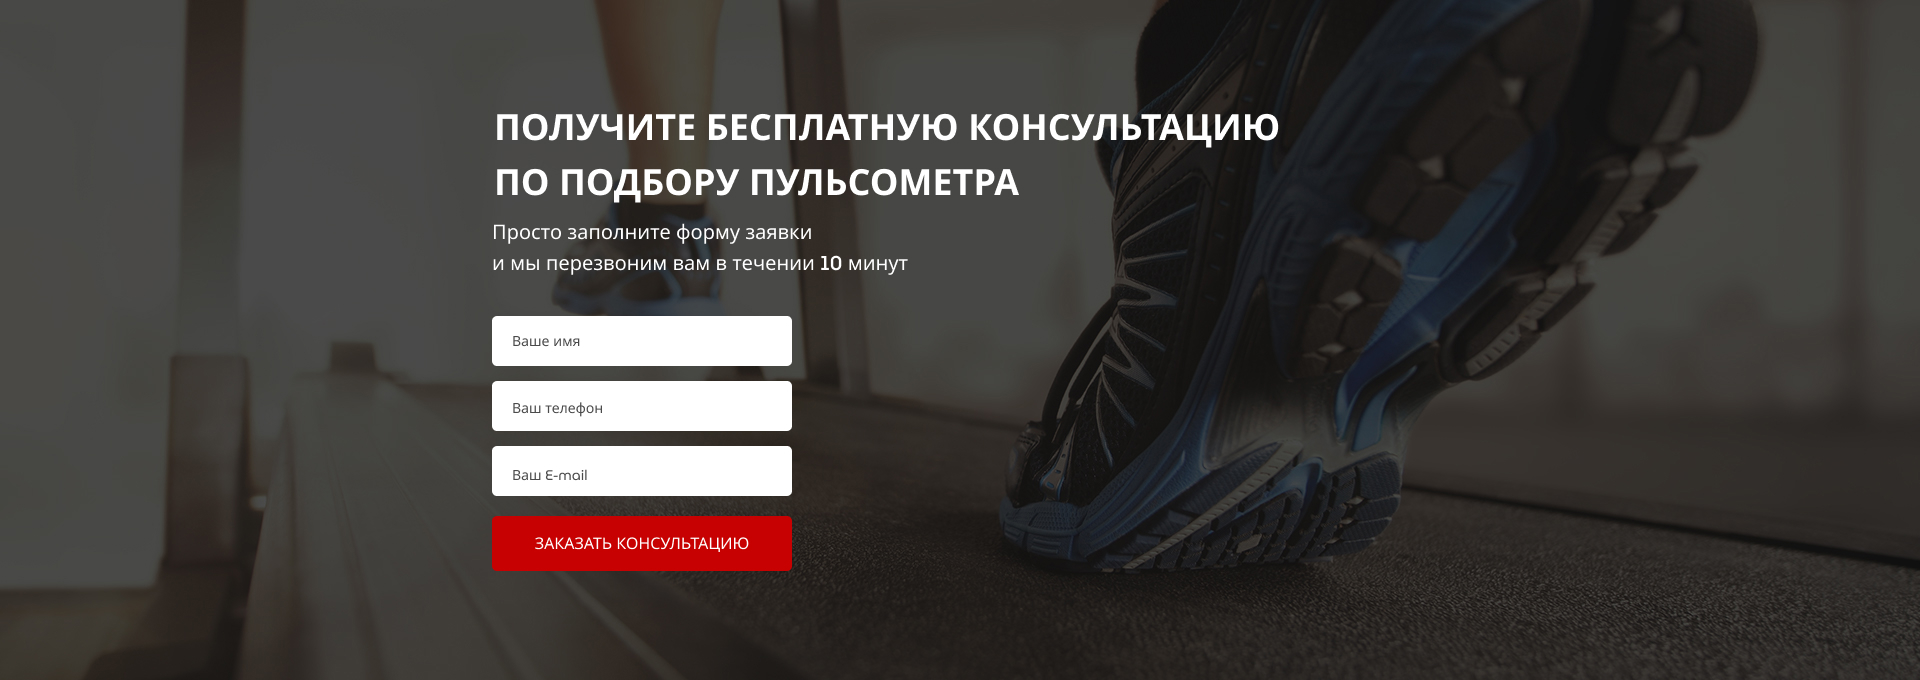
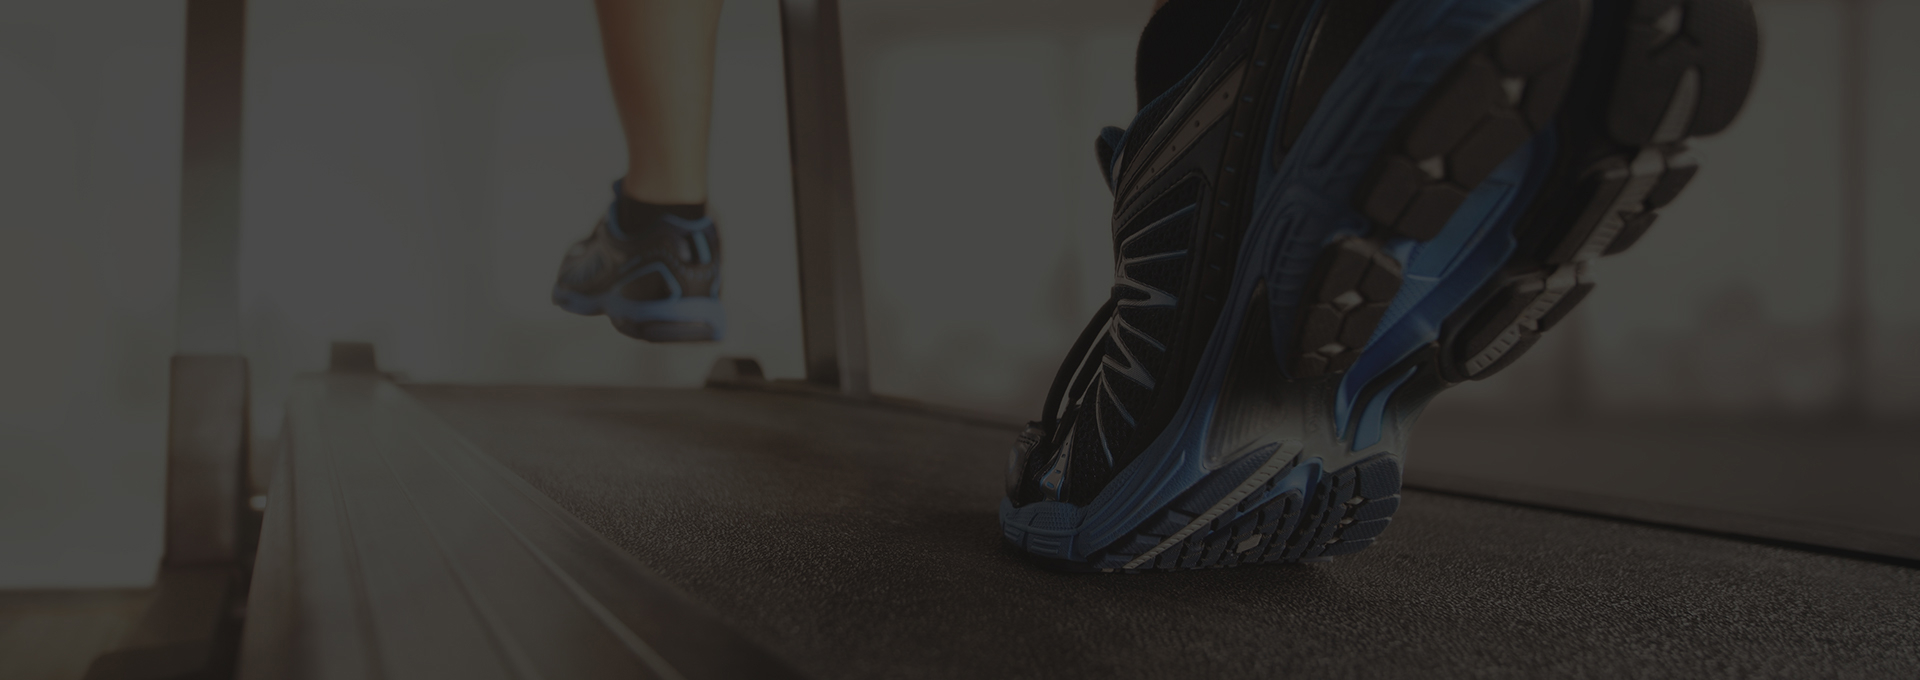
work scss and html, adaptation

diff --git a/src/css/style.min.css b/src/css/style.min.css
@@ -1,1 +1,1 @@
-*{font-family:"Museo Sans Cyrl",sans-serif}.container{max-width:950px;margin:0 auto}.promo{min-height:650px;padding:21px 0 93px 0;background:url(../img/main.jpg) center center/cover no-repeat}.promo__wrapper{display:flex;flex-direction:column;align-items:flex-end;margin-top:90px}.promo__header{color:#fff;font-size:42px;font-weight:700;text-transform:uppercase}.promo__subheader{margin-top:17px;color:#fff;font-size:24px;line-height:24px;font-weight:500;text-transform:uppercase}.promo__icons{margin-top:65px;width:425px;display:flex;justify-content:space-between}.promo__icon{width:106px;text-align:center;color:#fff;font-size:14px;font-weight:400}.promo__icon img{display:block;margin:0 auto;margin-bottom:20px}.promo__link{color:#fff;font-size:16px;font-weight:500;margin-top:18px}.promo__link a{color:#fff;text-transform:uppercase;text-decoration:underline}.header{display:flex;justify-content:space-between;align-items:center}.header__logo{width:250px}.header__logo img{width:90%}.header__official{color:#fff;font-family:"Museo Sans Cyrl -500";font-size:12px;font-weight:500;text-align:center}.header__official span{display:block;font-size:18px}.header__phone{display:block;color:#fff;font-size:18px;font-weight:700}.header__phone:hover{color:#fff;text-decoration:none}.header__contacts{display:flex;flex-direction:column;align-items:flex-end}.button{width:150px;height:30px;border-radius:5px;background-color:#c70101;border:none;color:#fff;font-size:12px;font-weight:500;text-transform:uppercase}.button_main{margin-top:67px;width:300px;height:50px;font-size:16px}
+*{font-family:"Museo Sans Cyrl",sans-serif}.container{max-width:950px;margin:0 auto}.promo{min-height:650px;padding:21px 0 93px 0;background:url(../img/main.jpg) center center/cover no-repeat}.promo__wrapper{display:flex;flex-direction:column;align-items:flex-end;margin-top:90px}.promo__header{color:#fff;font-size:42px;font-weight:700;text-transform:uppercase}.promo__subheader{margin-top:17px;color:#fff;font-size:24px;line-height:24px;font-weight:500;text-transform:uppercase}.promo__icons{margin-top:65px;width:425px;display:flex;justify-content:space-between}.promo__icon{width:106px;text-align:center;color:#fff;font-size:14px;font-weight:400}.promo__icon img{display:block;margin:0 auto;margin-bottom:20px}.promo__link{color:#fff;font-size:16px;font-weight:500;margin-top:18px}.promo__link a{color:#fff;text-transform:uppercase;text-decoration:underline}.header{display:flex;justify-content:space-between;align-items:center}.header__logo{width:250px}.header__logo img{width:90%}.header__official{color:#fff;font-family:"Museo Sans Cyrl -500";font-size:12px;font-weight:500;text-align:center}.header__official span{display:block;font-size:18px}.header__phone{display:block;color:#fff;font-size:18px;font-weight:700}.header__phone:hover{color:#fff;text-decoration:none}.header__contacts{display:flex;flex-direction:column;align-items:flex-end}.button{width:150px;height:30px;border-radius:5px;background-color:#c70101;border:none;color:#fff;font-size:12px;font-weight:500;text-transform:uppercase}.button_main{margin-top:67px;width:300px;height:50px;font-size:16px}.button_submit{width:100%;height:55px;font-size:16px}.advantages{padding:70px 0 80px 0;background-color:#f6f6f6}.advantages__wrapper{margin-top:65px;display:flex;justify-content:space-between}.advantages__item{display:flex;flex-direction:column;align-items:center;max-width:238px}.advantages__subtitle{margin-top:38px;color:#0d0d0d;font-size:18px;font-weight:700}.advantages__descr{margin-top:26px;color:#0d0d0d;font-size:15px;font-weight:300;text-align:center}.advantages__descr a{color:red;text-decoration:underline}.title{color:#0d0d0d;font-size:30px;font-weight:700;text-align:center;text-transform:uppercase}.title_left{color:#fff;font-size:36px;text-align:left}.consulation{min-height:680px;padding:100px 0 92px 0;background:url(../../img/consultation.jpg) center center/cover no-repeat}.consulation__descr{color:#fff;font-size:20px;font-weight:500}.feed-form{margin-top:36px;display:flex;flex-direction:column;width:300px}.feed-form input{height:50px;border-radius:5px;background-color:#fff;margin-bottom:15px;border:none;padding:0 20px;color:#4b4b4b;font-size:14px;font-weight:400}.feed-form input:nth-child(3){margin-bottom:20px}@media(max-width:991px){.header{margin:0 25px}.promo__header{font-size:34px}.promo__subheader{font-size:18px}.promo__wrapper{margin:90px 25px 0 0}.title{font-size:25px}.consulation .container{margin-left:50px}}@media(max-width:767px){.header__logo{width:200px}.header__official span{font-size:14px}.header__phone{font-size:15px}.header__contacts .button{width:130px}.promo__header{font-size:24px}.promo__subheader{font-size:14px}.promo__wrapper{margin:60px 25px 0 0}.promo__icons{width:350px}.title{font-size:20px}.advantages__wrapper{flex-direction:column;align-items:center}.advantages__subtitle{font-size:16px}.advantages__descr{font-size:14px;width:400px}}@media(max-width:575px){.header{margin:0 5px}.header__logo{width:200px}.header__official{font-size:10px}.header__official span{font-size:10px}.header__phone{font-size:11px}.header__contacts .button{width:100px;font-size:9px}.promo{min-height:550px;padding:21px 0 0 0}.promo__header{font-size:18px}.promo__subheader{font-size:12px}.promo__wrapper{margin:30px 5px 0 0}.promo__icons{width:290px}.promo .button_main{width:200px;font-size:13px;margin:30px 0 0 0}.promo__link{font-size:14px}.title{font-size:20px}.advantages{padding:30px 0 40px 0}.advantages__wrapper{margin-top:30px;flex-direction:column;align-items:center}.advantages__subtitle{font-size:16px}.advantages__descr{font-size:14px;width:200px}.title_left{font-size:16px}.consulation__descr{font-size:14px}.feed-form input{width:220px}.button_submit{width:220px;font-size:14px}}

diff --git a/src/index.html b/src/index.html
@@ -55,5 +55,63 @@
             </div>
         </div>
     </div>
+    <div class="advantages">
+        <div class="container">
+            <h2 class="title">НАШИ ПРЕИМУЩЕСТВА</h2>
+            <div class="advantages__wrapper">
+                <div class="advantages__item">
+                    <img src="icons/advantages/cup.png" alt="cup" class="advantages__icon">
+                    <div class="advantages__subtitle">
+                        Делимся опытом
+                    </div>
+                    <div class="advantages__descr">
+                        Наши сотрудники всегда готовы поделиться своим опытом, 
+                        так как сами бегают полумарафоны, переплыли Босфор, готовятся к соревнованиям по триатлону!
+                    </div>
+                </div>
+                <div class="advantages__item">
+                    <img src="icons/advantages/heart.png" alt="heart" class="advantages__icon">
+                    <div class="advantages__subtitle">
+                        Заботимся о здоровье
+                    </div>
+                    <div class="advantages__descr">
+                        Мы работаем для того, 
+                        чтобы Ваши занятия спортом шли на пользу Вашему здоровью и были в радость Вам и Вашим близким!  
+                    </div>
+                </div>
+                <div class="advantages__item">
+                    <img src="icons/advantages/shoe.png" alt="shoe" class="advantages__icon">
+                    <div class="advantages__subtitle">
+                        Учим бегать
+                    </div>
+                    <div class="advantages__descr">
+                        Помогаем с обучением 
+                        правильной технике бега!<br>
+                        Дружим с крупнейшей школой бега в России - 
+                        <a href="#">I LOVE RUNNING.</a>
+                    </div>
+                </div>
+            </div>
+        </div>
+    </div>
+
+    <div class="consulation">
+        <div class="container">
+            <h2 class="title title_left">
+                Получите бесплатную консультацию <br>
+                по подбору пульсометра 
+            </h2>
+            <div class="consulation__descr">
+                Просто заполните форму заявки <br>
+                и мы перезвоним вам в течении 10 минут
+            </div>
+            <form class="feed-form" action="#">
+                <input name="name" required type="text" placeholder="Ваше имя">
+                <input name="phone" required type="number" placeholder="Ваш телефон">
+                <input name="email" required type="email" placeholder="Ваш E-mail">
+                <button class="button button_submit">ЗАКАЗАТЬ консультацию</button>
+            </form>
+        </div>
+    </div>
 </body>
 </html>

diff --git a/src/sass/base/_media.sass b/src/sass/base/_media.sass
@@ -1,0 +1,105 @@
+@media ( max-width: 991px )
+    .header
+        margin: 0 25px
+    .promo
+        &__header
+            font-size: 34px
+        &__subheader
+            font-size: 18px
+        &__wrapper 
+            margin: 90px 25px 0 0
+    .title
+        font-size: 25px
+    .consulation .container
+        margin-left: 50px
+        
+
+@media ( max-width: 767px )
+    .header
+        &__logo
+            width: 200px
+        &__official
+            span
+                font-size: 14px
+        &__phone
+            font-size: 15px
+        &__contacts
+            .button
+                width: 130px
+    .promo
+        &__header
+            font-size: 24px
+        &__subheader
+            font-size: 14px
+        &__wrapper 
+            margin: 60px 25px 0 0
+        &__icons
+            width: 350px
+    .title
+        font-size: 20px
+    .advantages
+        &__wrapper
+            flex-direction: column
+            align-items: center
+        &__subtitle
+            font-size: 16px
+        &__descr
+            font-size: 14px
+            width: 400px
+
+@media ( max-width: 575px)
+    .header
+        margin: 0 5px
+        &__logo
+            width: 200px
+        &__official
+            font-size: 10px
+            span
+                font-size: 10px
+        &__phone
+            font-size: 11px
+        &__contacts
+            .button
+                width: 100px
+                font-size: 9px
+    .promo
+        min-height: 550px
+        padding: 21px 0 0 0
+        &__header
+            font-size: 18px
+        &__subheader
+            font-size: 12px
+        &__wrapper 
+            margin: 30px 5px 0 0
+        &__icons
+            width: 290px
+        .button_main
+            width: 200px
+            font-size: 13px
+            margin: 30px 0 0 0
+        &__link
+            font-size: 14px
+    .title
+        font-size: 20px
+    .advantages
+        padding: 30px 0 40px 0
+        &__wrapper
+            margin-top: 30px
+            flex-direction: column
+            align-items: center
+        &__subtitle
+            font-size: 16px
+        &__descr
+            font-size: 14px
+            width: 200px
+    .title_left
+        font-size: 16px
+    .consulation
+        &__descr
+            font-size: 14px
+    .feed-form
+        input
+            width: 220px
+    .button_submit
+        width: 220px
+        font-size: 14px

diff --git a/src/sass/blocks/_advantages.scss b/src/sass/blocks/_advantages.scss
@@ -1,0 +1,32 @@
+.advantages {   
+    padding: 70px 0 80px 0;
+    background-color: #f6f6f6;
+    &__wrapper {
+        margin-top: 65px;
+        display: flex;
+        justify-content: space-between;
+    }
+    &__item {
+        display: flex;
+        flex-direction: column;
+        align-items: center;
+        max-width: 238px;
+    }
+    &__subtitle {
+        margin-top: 38px;
+        color: #0d0d0d;
+        font-size: 18px;
+        font-weight: 700;
+    }
+    &__descr {
+        margin-top: 26px;
+        color: #0d0d0d;
+        font-size: 15px;
+        font-weight: 300;
+        text-align: center;
+        a {
+            color: #ff0000;
+            text-decoration: underline;
+        }
+    }
+}

diff --git a/src/sass/blocks/_forms.scss b/src/sass/blocks/_forms.scss
@@ -1,0 +1,20 @@
+.feed-form {
+    margin-top: 36px;
+    display: flex;
+    flex-direction: column;
+    width: 300px;
+    input {
+        height: 50px;
+        border-radius: 5px;
+        background-color: #fff;
+        margin-bottom: 15px;
+        border: none;
+        padding: 0 20px;
+        color: #4b4b4b;
+        font-size: 14px;
+        font-weight: 400;
+        &:nth-child(3) {
+            margin-bottom: 20px;
+        }  
+    }
+}

diff --git a/src/sass/blocks/_consulation.scss b/src/sass/blocks/_consulation.scss
@@ -1,0 +1,10 @@
+.consulation {
+    min-height: 680px;
+    padding: 100px 0 92px 0;
+    background: url('../../img/consultation.jpg') center (center/cover) no-repeat;
+    &__descr {
+        color: #fff;
+        font-size: 20px;
+        font-weight: 500;
+    }
+}

diff --git a/src/sass/style.scss b/src/sass/style.scss
@@ -11,3 +11,12 @@
 @import 'blocks/promo';
 @import 'blocks/header.scss';
 @import 'blocks/buttons';
+@import 'blocks/advantages';
+@import 'blocks/titles';
+@import 'blocks/consulation';
+@import 'blocks/forms';
+
+
+
+
+@import 'base/media.sass';

diff --git a/src/sass/blocks/_titles.scss b/src/sass/blocks/_titles.scss
@@ -1,0 +1,12 @@
+.title {
+    color: #0d0d0d;
+    font-size: 30px;
+    font-weight: 700;
+    text-align: center;
+    text-transform: uppercase;
+    &_left {
+        color: #fff;
+        font-size: 36px;
+        text-align: left;
+    }
+}

diff --git a/src/css/blocks/consulation.min.css b/src/css/blocks/consulation.min.css
@@ -1,0 +1,1 @@
+.consulation{min-height:680px;padding:100px 0 92px 0;background:url(../../img/consultation.jpg) center center/cover no-repeat}.consulation__descr{color:#fff;font-size:20px;font-weight:500}

diff --git a/src/sass/blocks/_buttons.scss b/src/sass/blocks/_buttons.scss
@@ -14,4 +14,9 @@
         height: 50px;
         font-size: 16px;
     }
+    &_submit {
+        width: 100%;
+        height: 55px;
+        font-size: 16px;
+    }
 }
